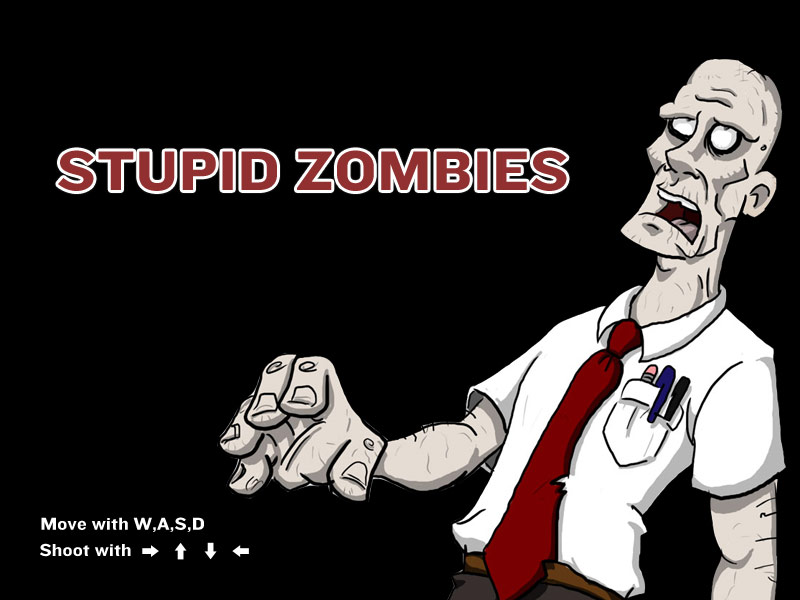
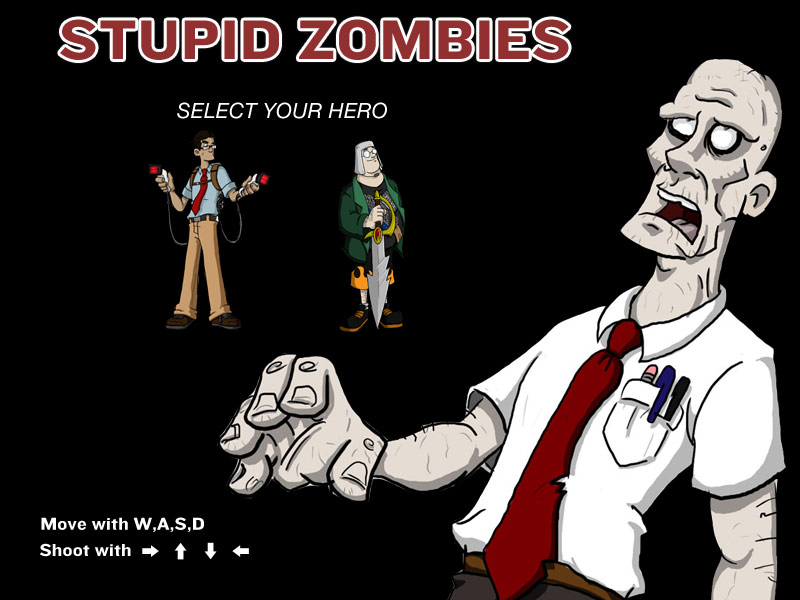
New screens, added player selection

Changed region(s): [[0.0625, 0.15, 0.7188, 0.57], [0.0625, 0.03, 0.7188, 0.12]]

diff --git a/cant_touch_this/index.html b/cant_touch_this/index.html
@@ -110,6 +110,7 @@ canvas{ background: url("swamp.jpg") no-repeat; }
 		
 		game.images = {};
 		
+        game.selectedPlayer = 0;
 
 		game.loadedResources = 0;
 		game.totalResources = 3;
@@ -136,6 +137,10 @@ canvas{ background: url("swamp.jpg") no-repeat; }
 		game.images["player"] = new Image();
         game.images["player"].src = "./player.png";
         game.images["player"].onload = function(){ game.loadedResources += 1; }
+
+        game.images["player2"] = new Image();
+        game.images["player2"].src = "./player2.png";
+        game.images["player2"].onload = function(){ game.loadedResources += 1; }
 		
 		
 
@@ -216,8 +221,19 @@ canvas{ background: url("swamp.jpg") no-repeat; }
 		
 		function Player() {
           
-            var image = game.images["player"];
-         	this.rect = new Rect(390, 290, 41, 101);
+            var image = game.images[game.selectedPlayer];
+            var heroW;
+            var heroH = 101;
+
+            if (game.selectedPlayer = 'player') {
+                heroW = 41;
+
+            } else {
+
+                 heroW = 62;
+
+            }
+         	this.rect = new Rect(390, 290, heroW, heroH);
 			this.currentDirecton = null;
             this.shootDirection = null;
 			this.reloading = false;
@@ -231,6 +247,25 @@ canvas{ background: url("swamp.jpg") no-repeat; }
                 _renderingContext.restore();
             }
 
+        }
+
+        function getCursorPosition(e) {
+            var x;
+            var y;
+            if (e.pageX != undefined && e.pageY != undefined) {
+            x = e.pageX;
+            y = e.pageY;
+            }
+            else {
+            x = e.clientX + document.body.scrollLeft +
+                    document.documentElement.scrollLeft;
+            y = e.clientY + document.body.scrollTop +
+                    document.documentElement.scrollTop;
+            }
+            x -= canvas.offsetLeft;
+            y -= canvas.offsetTop;
+            
+            return [x,y];
         }
 
 
@@ -247,6 +282,30 @@ canvas{ background: url("swamp.jpg") no-repeat; }
                 //  _renderingContext.fillRect(this.rect.x, this.rect.y, this.rect.w, this.rect.h);
                 _renderingContext.restore();
             }
+
+        }
+
+         function selectHero(e) {
+                var position = getCursorPosition(e);
+
+                console.log(position[0]);
+                if (position[0] > 155 && position[0] < 273 && position[1] >138 && position[1] <331) {
+
+                    game.selectedPlayer = 'player2';
+
+                } else  if (position[0] > 352 && position[0] < 402 && position[1] >138 && position[1] <331) {
+
+                    game.selectedPlayer = 'player';
+
+                }
+
+                if (game.selectedPlayer != 0) {
+                        var canvas = document.getElementById("canvas");
+                     canvas.removeEventListener("click",selectHero);
+                     game.init();
+
+                }
+
 
         }
 
@@ -285,7 +344,7 @@ canvas{ background: url("swamp.jpg") no-repeat; }
         game.state = game.states.LOADING;
       
         game.loadedResources = 0;
-        game.totalResources = 5;
+        game.totalResources = 6;
 
         game.resourcesLoaded = function(){ return game.loadedResources == game.totalResources; }
 
@@ -326,8 +385,16 @@ canvas{ background: url("swamp.jpg") no-repeat; }
                             //_renderingContext.fillText(welcomeText, game.width/2 - welcomeLen.width/2, 290);
                             _renderingContext.restore();
 
+
+                             var canvas = document.getElementById("canvas");
+                             canvas.addEventListener("click", selectHero, false);
+  
+                             
+  
+  
+
                             if(keyboard.keyPressed("enter")){
-                                game.init();
+                               
                 
                             }
 
@@ -465,7 +532,7 @@ canvas{ background: url("swamp.jpg") no-repeat; }
             }
 
             // Update enemies
-            if (RandomInt(game.totalTime) < game.totalTime * 0.05 )
+            if (RandomInt(game.totalTime) < game.totalTime * 0.09 )
                 enemies.push(new Enemy());
             // Loop through each enemy
             for (var i = 0; i < enemies.length; ++i){
